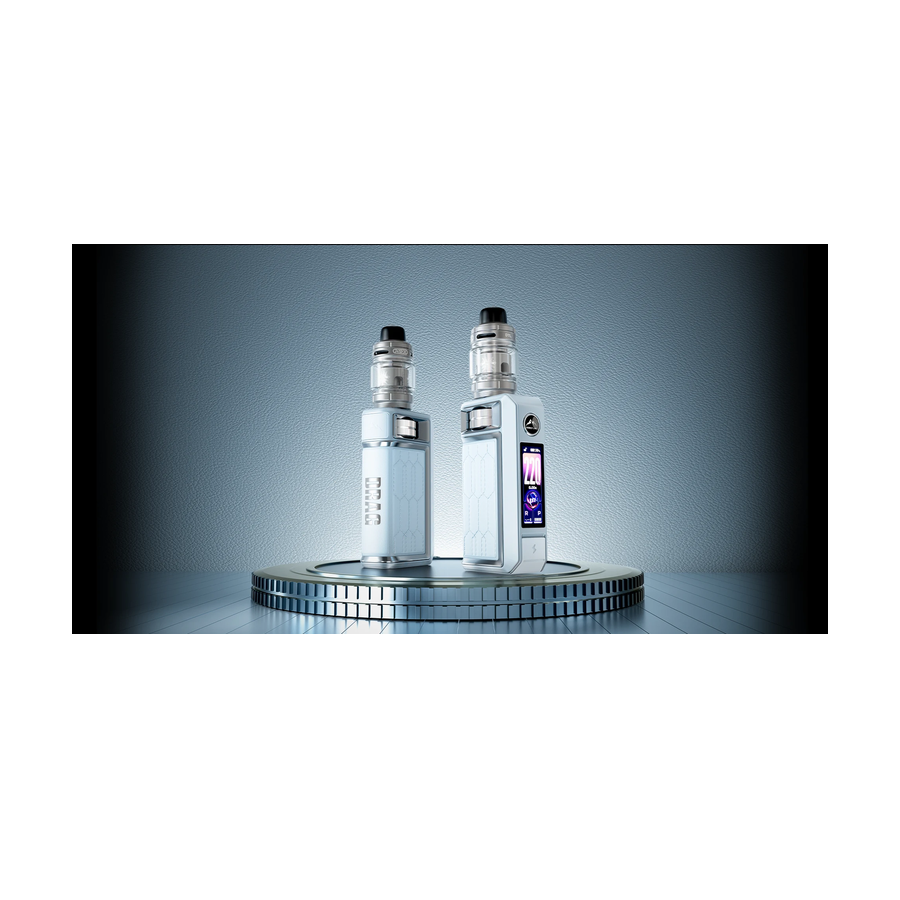
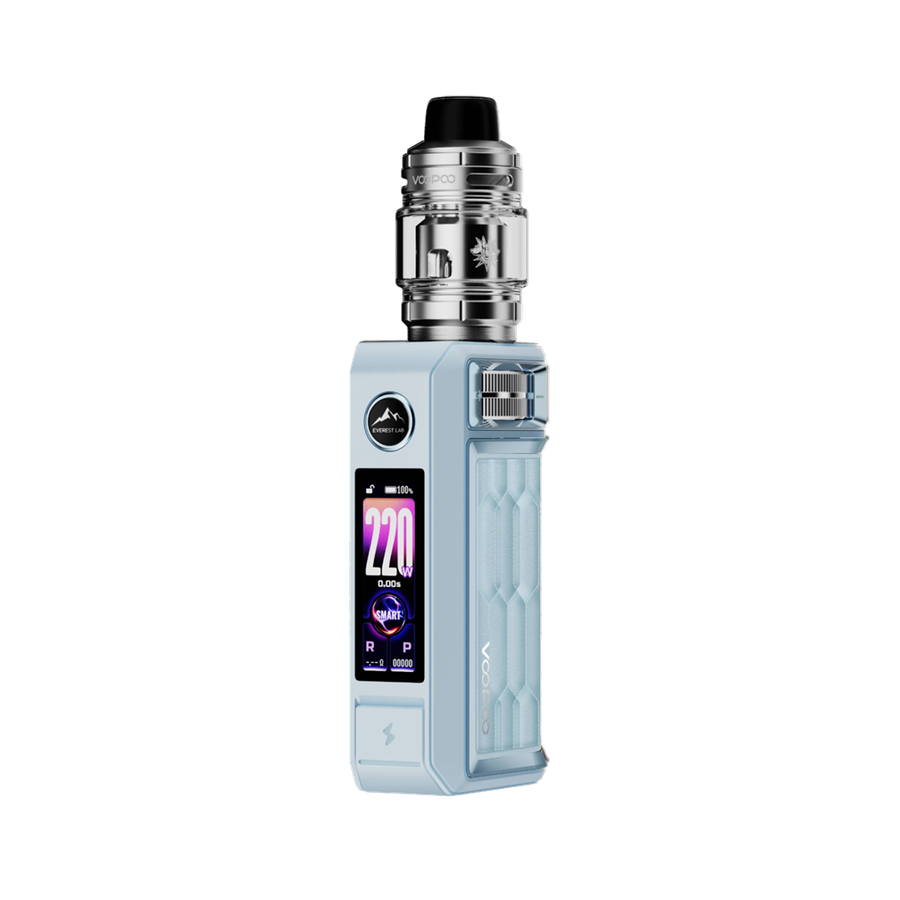
Исправлены превью Drag 6 без баннеров

diff --git a/data/productImageManifest.ts b/data/productImageManifest.ts
@@ -399,13 +399,13 @@ export const productImagePathMap: Record<string, string> = {
   "voopoo/voopoo-nabor-voopoo-argus-e40-pod-1800mah-kit-pearl-white": "/products/voopoo/voopoo-nabor-voopoo-argus-e40-pod-1800mah-kit-pearl-white.webp",
   "voopoo/voopoo-nabor-voopoo-argus-e40-pod-1800mah-kit-space-gray": "/products/voopoo/voopoo-nabor-voopoo-argus-e40-pod-1800mah-kit-space-gray.webp",
   "voopoo/voopoo-nabor-voopoo-argus-e40-pod-1800mah-kit-starlight-purple": "/products/voopoo/voopoo-nabor-voopoo-argus-e40-pod-1800mah-kit-starlight-purple.webp",
-  "voopoo/voopoo-nabor-voopoo-drag-6-kit-black": "/products/voopoo/voopoo-nabor-voopoo-drag-6-kit-black.webp",
-  "voopoo/voopoo-nabor-voopoo-drag-6-kit-blue": "/products/voopoo/voopoo-nabor-voopoo-drag-6-kit-blue.webp",
-  "voopoo/voopoo-nabor-voopoo-drag-6-kit-brown": "/products/voopoo/voopoo-nabor-voopoo-drag-6-kit-brown.webp",
-  "voopoo/voopoo-nabor-voopoo-drag-6-kit-green": "/products/voopoo/voopoo-nabor-voopoo-drag-6-kit-green.webp",
-  "voopoo/voopoo-nabor-voopoo-drag-6-kit-metal-gray": "/products/voopoo/voopoo-nabor-voopoo-drag-6-kit-metal-gray.webp",
-  "voopoo/voopoo-nabor-voopoo-drag-6-kit-red": "/products/voopoo/voopoo-nabor-voopoo-drag-6-kit-red.webp",
-  "voopoo/voopoo-nabor-voopoo-drag-6-kit-silver": "/products/voopoo/voopoo-nabor-voopoo-drag-6-kit-silver.webp",
+  "voopoo/voopoo-nabor-voopoo-drag-6-kit-black": "/products/voopoo/voopoo-nabor-voopoo-drag-6-kit-black.png",
+  "voopoo/voopoo-nabor-voopoo-drag-6-kit-blue": "/products/voopoo/voopoo-nabor-voopoo-drag-6-kit-blue.png",
+  "voopoo/voopoo-nabor-voopoo-drag-6-kit-brown": "/products/voopoo/voopoo-nabor-voopoo-drag-6-kit-brown.png",
+  "voopoo/voopoo-nabor-voopoo-drag-6-kit-green": "/products/voopoo/voopoo-nabor-voopoo-drag-6-kit-green.png",
+  "voopoo/voopoo-nabor-voopoo-drag-6-kit-metal-gray": "/products/voopoo/voopoo-nabor-voopoo-drag-6-kit-metal-gray.png",
+  "voopoo/voopoo-nabor-voopoo-drag-6-kit-red": "/products/voopoo/voopoo-nabor-voopoo-drag-6-kit-red.png",
+  "voopoo/voopoo-nabor-voopoo-drag-6-kit-silver": "/products/voopoo/voopoo-nabor-voopoo-drag-6-kit-silver.png",
   "voopoo/voopoo-nabor-voopoo-drag-s3-pod-mod-3000mah-blue": "/products/voopoo/voopoo-nabor-voopoo-drag-s3-pod-mod-3000mah-blue.webp",
   "voopoo/voopoo-nabor-voopoo-drag-s3-pod-mod-3000mah-brown": "/products/voopoo/voopoo-nabor-voopoo-drag-s3-pod-mod-3000mah-brown.webp",
   "voopoo/voopoo-nabor-voopoo-drag-s3-pod-mod-3000mah-green": "/products/voopoo/voopoo-nabor-voopoo-drag-s3-pod-mod-3000mah-green.webp",
